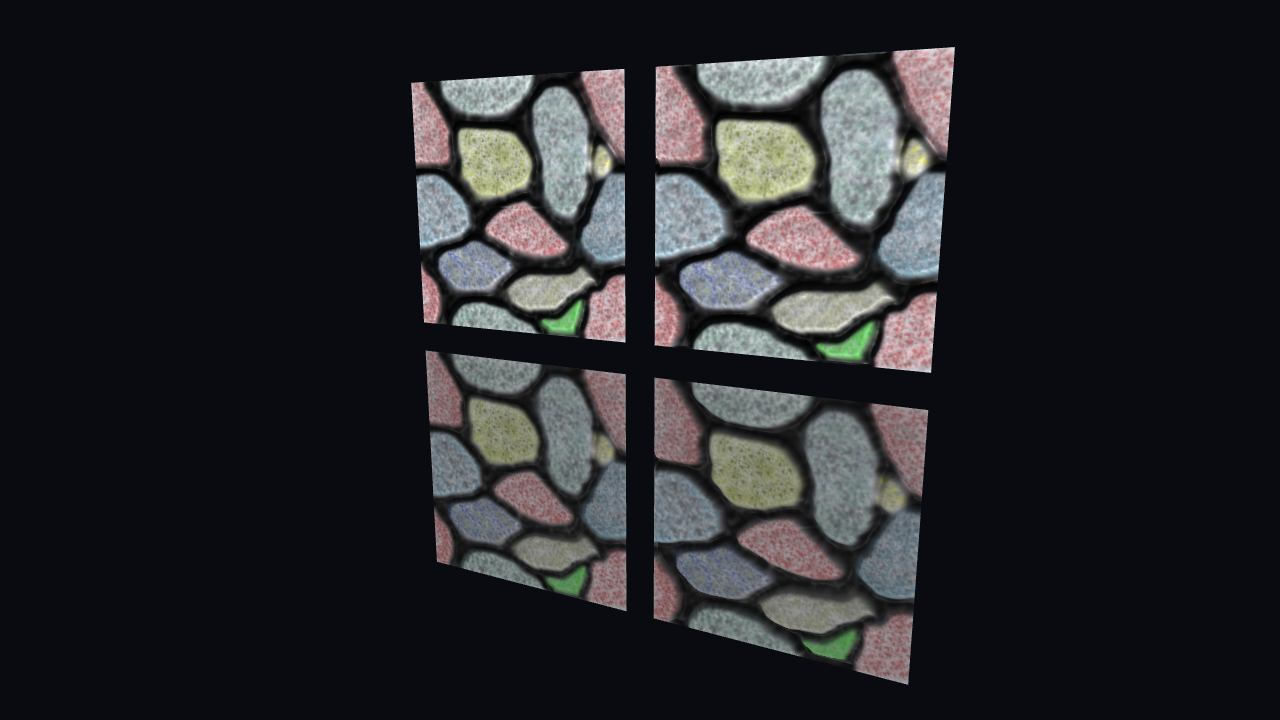
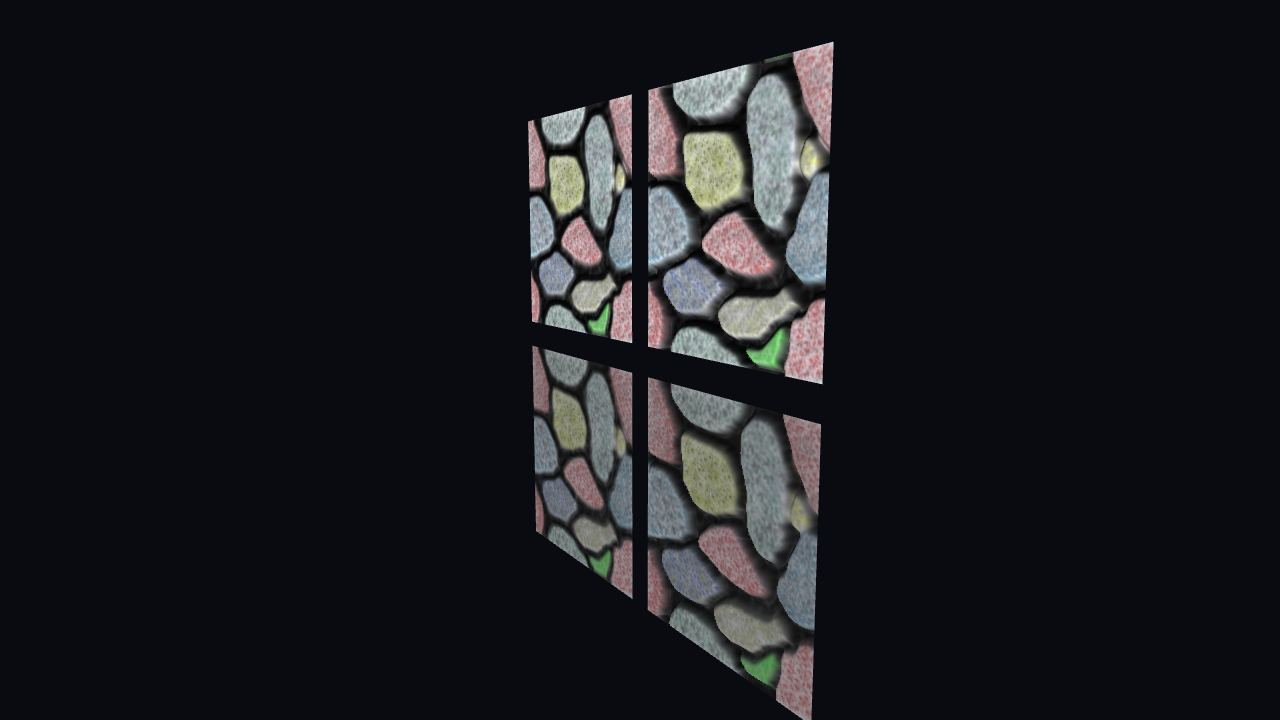
fix(lab): use grazing view for parallax reference images
Capture scene348 native Babylon.js golden at the requested Grazing preset and derive its1280x720 thumbnail from that image. Pin the saved-reference comparison to Grazing and assert the actual camera alpha, beta, and radius. Other goldens, thresholds, and runtime code remain unchanged.

Changed region(s): [[0.3125, 0.0611, 0.75, 1.0]]

diff --git a/tests/lite/parity/scenes/scene348-parallax-occlusion.spec.ts b/tests/lite/parity/scenes/scene348-parallax-occlusion.spec.ts
@@ -1,6 +1,7 @@
 import { test, expect } from "../parity-fixtures";
 import { existsSync } from "node:fs";
 import { resolve } from "node:path";
+import { SCENE348_CAMERAS } from "../../../../lab/lite/src/shared/scene348-parallax.js";
 import { attachCompareArtifacts, compareImages, getSceneConfig, waitForCanvasReady } from "../compare-utils";
 
 const config = getSceneConfig(348);
@@ -12,10 +13,14 @@ test.use({ baseURL: `http://127.0.0.1:${process.env.LAB_TEST_PORT ?? 5179}` });
 // an inspectable comparison without inventing an equivalence threshold.
 test("Scene 348 - render independent POM for visual comparison", async ({ page }, testInfo) => {
     expect(existsSync(golden), "Scene 348's captured Babylon.js comparison reference must exist").toBe(true);
-    await page.goto("/scene348.html?embed=1&view=oblique");
+    await page.goto("/scene348.html?embed=1&view=grazing");
     await waitForCanvasReady(page, { timeout: 30_000, label: "scene348 Lite POM" });
     await expect(page.locator("#loader-overlay")).toHaveCount(0);
     await expect(page.locator("canvas")).toHaveAttribute("data-draw-calls", "4");
+    await expect(page.locator("canvas")).toHaveAttribute("data-view", "grazing");
+    await expect(page.locator("canvas")).toHaveAttribute("data-camera-alpha", String(SCENE348_CAMERAS.grazing.alpha));
+    await expect(page.locator("canvas")).toHaveAttribute("data-camera-beta", String(SCENE348_CAMERAS.grazing.beta));
+    await expect(page.locator("canvas")).toHaveAttribute("data-camera-radius", String(SCENE348_CAMERAS.grazing.radius));
     const actual = resolve(referenceDir, "test-actual.png");
     await page.locator("canvas").screenshot({ path: actual });
     const difference = compareImages(actual, golden);

diff --git a/docs/lite/architecture/parallax-occlusion-mapping.md b/docs/lite/architecture/parallax-occlusion-mapping.md
@@ -497,9 +497,9 @@ texture assets/filtering. Orbit/zoom is interactive; panning is disabled so
 synchronization has a fixed target. Resize behavior remains engine-native.
 
 The new BJS golden and its 1280x720 JPG thumbnail are captured once from the
-original oblique embedded view (`?embed=1&view=oblique`), which the saved-reference
-comparison selects explicitly. Interactive pages default to Grazing to make the
-relief easier to see. These are visual comparison assets, not a claim of
+Grazing embedded view (`?embed=1&view=grazing`), matching the interactive default
+so the relief is easier to see. The saved-reference comparison selects Grazing
+explicitly and verifies its actual camera pose. These are visual comparison assets, not a claim of
 POM pixel equivalence. `scene-config.json` marks strict pixel parity skipped
 with an explicit reason, while the scene-specific browser spec still verifies
 that both pages render, both material families react to POM/depth, controls
